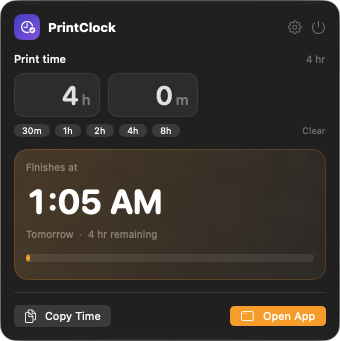
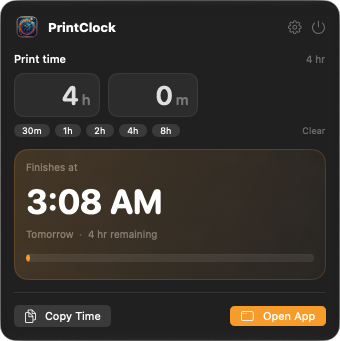
Use new PrintClock app artwork and add install docs

Changed region(s): [[0.0294, 0.0293, 0.1176, 0.1173], [0.0588, 0.5572, 0.1471, 0.6452], [0.2353, 0.5572, 0.2941, 0.6158]]

diff --git a/scripts/make_icon.swift b/scripts/make_icon.swift
@@ -2,193 +2,91 @@
 import AppKit
 import CoreGraphics
 import Foundation
+import ImageIO
 
-// Renders the 1024pt app icon. Usage: swift make_icon.swift <output-directory>
+// Renders the PrintClock app icon set from the artwork in assets/.
+// Usage: swift scripts/make_icon.swift [output-directory]
 
-let arguments = CommandLine.arguments
-let outputDirectory = arguments.count > 1
-    ? arguments[1]
-    : "PrintClock/Assets.xcassets/AppIcon.appiconset"
+let scriptURL = URL(fileURLWithPath: CommandLine.arguments[0]).standardizedFileURL
+let projectRoot = scriptURL.deletingLastPathComponent().deletingLastPathComponent()
+let sourceURL = projectRoot.appendingPathComponent("assets/PrintClockIconSource.jpg")
 
-let canvas: CGFloat = 1024
-let colorSpace = CGColorSpaceCreateDeviceRGB()
-
-guard let bitmap = NSBitmapImageRep(
-    bitmapDataPlanes: nil,
-    pixelsWide: Int(canvas),
-    pixelsHigh: Int(canvas),
-    bitsPerSample: 8,
-    samplesPerPixel: 4,
-    hasAlpha: true,
-    isPlanar: false,
-    colorSpaceName: .deviceRGB,
-    bytesPerRow: 0,
-    bitsPerPixel: 0
-) else {
-    fatalError("Could not create bitmap")
+let outputDirectory: URL
+if CommandLine.arguments.count > 1 {
+    outputDirectory = URL(fileURLWithPath: CommandLine.arguments[1])
+} else {
+    outputDirectory = projectRoot
+        .appendingPathComponent("PrintClock")
+        .appendingPathComponent("Assets.xcassets")
+        .appendingPathComponent("AppIcon.appiconset")
 }
 
-NSGraphicsContext.saveGraphicsState()
-NSGraphicsContext.current = NSGraphicsContext(bitmapImageRep: bitmap)
-guard let context = NSGraphicsContext.current?.cgContext else {
-    fatalError("Could not create drawing context")
+guard let source = CGImageSourceCreateWithURL(sourceURL as CFURL, nil),
+      let artwork = CGImageSourceCreateImageAtIndex(source, 0, nil) else {
+    fatalError("Could not load \(sourceURL.path)")
 }
 
-context.setAllowsAntialiasing(true)
-context.setShouldAntialias(true)
-
-// Background squircle
-let inset: CGFloat = 54
-let backgroundRect = CGRect(x: inset, y: inset, width: canvas - inset * 2, height: canvas - inset * 2)
-let backgroundPath = CGPath(
-    roundedRect: backgroundRect,
-    cornerWidth: 218,
-    cornerHeight: 218,
-    transform: nil
-)
-
-context.saveGState()
-context.setShadow(
-    offset: CGSize(width: 0, height: -22),
-    blur: 46,
-    color: NSColor.black.withAlphaComponent(0.38).cgColor
-)
-context.addPath(backgroundPath)
-context.setFillColor(NSColor.black.cgColor)
-context.fillPath()
-context.restoreGState()
-
-context.saveGState()
-context.addPath(backgroundPath)
-context.clip()
-
-let backgroundGradient = CGGradient(
-    colorsSpace: colorSpace,
-    colors: [
-        NSColor(srgbRed: 0.20, green: 0.16, blue: 0.58, alpha: 1).cgColor,
-        NSColor(srgbRed: 0.43, green: 0.28, blue: 0.85, alpha: 1).cgColor,
-        NSColor(srgbRed: 0.61, green: 0.40, blue: 0.96, alpha: 1).cgColor
-    ] as CFArray,
-    locations: [0, 0.55, 1]
-)!
-
-context.drawLinearGradient(
-    backgroundGradient,
-    start: CGPoint(x: 150, y: 930),
-    end: CGPoint(x: 930, y: 110),
-    options: []
-)
-
-// Soft light from the top-left
-let glow = CGGradient(
-    colorsSpace: colorSpace,
-    colors: [
-        NSColor.white.withAlphaComponent(0.24).cgColor,
-        NSColor.white.withAlphaComponent(0).cgColor
-    ] as CFArray,
-    locations: [0, 1]
-)!
-
-context.drawRadialGradient(
-    glow,
-    startCenter: CGPoint(x: 320, y: 820),
-    startRadius: 0,
-    endCenter: CGPoint(x: 320, y: 820),
-    endRadius: 660,
-    options: []
-)
-
-context.restoreGState()
-
-// Clock
-let center = CGPoint(x: 512, y: 516)
-let ringRadius: CGFloat = 246
-
-context.saveGState()
-context.setShadow(
-    offset: CGSize(width: 0, height: -12),
-    blur: 28,
-    color: NSColor.black.withAlphaComponent(0.22).cgColor
-)
-context.setFillColor(NSColor.white.withAlphaComponent(0.06).cgColor)
-context.fillEllipse(in: CGRect(
-    x: center.x - ringRadius,
-    y: center.y - ringRadius,
-    width: ringRadius * 2,
-    height: ringRadius * 2
-))
-context.restoreGState()
-
-context.setStrokeColor(NSColor.white.withAlphaComponent(0.96).cgColor)
-context.setLineWidth(45)
-context.strokeEllipse(in: CGRect(
-    x: center.x - ringRadius,
-    y: center.y - ringRadius,
-    width: ringRadius * 2,
-    height: ringRadius * 2
-))
-
-// Tick marks
-func point(angleDegrees: CGFloat, radius: CGFloat) -> CGPoint {
-    let radians = angleDegrees * .pi / 180
-    return CGPoint(
-        x: center.x + sin(radians) * radius,
-        y: center.y + cos(radians) * radius
-    )
+// The 1376x768 artwork has its rounded-square icon at this location.
+let iconRect = CGRect(x: 388, y: 84, width: 600, height: 600)
+guard let croppedArtwork = artwork.cropping(to: iconRect) else {
+    fatalError("Could not crop the icon artwork")
 }
 
-context.setLineCap(.round)
-
-for tick in 0..<12 {
-    let angle = CGFloat(tick) * 30
-    let isMajor = tick % 3 == 0
-    let innerRadius: CGFloat = isMajor ? 190 : 200
-    let outerRadius: CGFloat = 218
-
-    context.setStrokeColor(NSColor.white.withAlphaComponent(isMajor ? 0.72 : 0.40).cgColor)
-    context.setLineWidth(isMajor ? 13 : 8)
-    context.move(to: point(angleDegrees: angle, radius: innerRadius))
-    context.addLine(to: point(angleDegrees: angle, radius: outerRadius))
-    context.strokePath()
-}
-
-// Hands: 7:48
-let hourAngle: CGFloat = (7 + 48.0 / 60.0) * 30
-let minuteAngle: CGFloat = 48 * 6
-
-context.setLineCap(.round)
-
-context.setStrokeColor(NSColor.white.cgColor)
-context.setLineWidth(31)
-context.move(to: center)
-context.addLine(to: point(angleDegrees: hourAngle, radius: 118))
-context.strokePath()
-
-context.setStrokeColor(NSColor(srgbRed: 1.0, green: 0.69, blue: 0.27, alpha: 1).cgColor)
-context.setLineWidth(22)
-context.move(to: center)
-context.addLine(to: point(angleDegrees: minuteAngle, radius: 174))
-context.strokePath()
-
-// Center cap
-context.setFillColor(NSColor(srgbRed: 1.0, green: 0.69, blue: 0.27, alpha: 1).cgColor)
-context.fillEllipse(in: CGRect(x: center.x - 23, y: center.y - 23, width: 46, height: 46))
-context.setFillColor(NSColor.white.cgColor)
-context.fillEllipse(in: CGRect(x: center.x - 10, y: center.y - 10, width: 20, height: 20))
-
-NSGraphicsContext.restoreGraphicsState()
-
-// Save
 try FileManager.default.createDirectory(
-    atPath: outputDirectory,
+    at: outputDirectory,
     withIntermediateDirectories: true
 )
 
-guard let png = bitmap.representation(using: .png, properties: [:]) else {
-    fatalError("Could not encode PNG")
-}
+let colorSpace = CGColorSpaceCreateDeviceRGB()
+let sizes = [16, 32, 64, 128, 256, 512, 1024]
 
-let outputURL = URL(fileURLWithPath: outputDirectory)
-    .appendingPathComponent("icon_1024.png")
-try png.write(to: outputURL)
-print("Wrote \(outputURL.path)")
+for size in sizes {
+    guard let context = CGContext(
+        data: nil,
+        width: size,
+        height: size,
+        bitsPerComponent: 8,
+        bytesPerRow: 0,
+        space: colorSpace,
+        bitmapInfo: CGImageAlphaInfo.premultipliedLast.rawValue
+    ) else {
+        fatalError("Could not create a \(size)px context")
+    }
+
+    let bounds = CGRect(x: 0, y: 0, width: size, height: size)
+    context.clear(bounds)
+    context.interpolationQuality = .high
+    context.setShouldAntialias(true)
+
+    // Match the rounded-square silhouette of the artwork.
+    let radius = CGFloat(size) * 0.218
+    context.addPath(CGPath(
+        roundedRect: bounds,
+        cornerWidth: radius,
+        cornerHeight: radius,
+        transform: nil
+    ))
+    context.clip()
+    context.draw(croppedArtwork, in: bounds)
+
+    guard let scaled = context.makeImage() else {
+        fatalError("Could not render the \(size)px icon")
+    }
+
+    let destinationURL = outputDirectory.appendingPathComponent("icon_\(size).png")
+    guard let destination = CGImageDestinationCreateWithURL(
+        destinationURL as CFURL,
+        "public.png" as CFString,
+        1,
+        nil
+    ) else {
+        fatalError("Could not create \(destinationURL.path)")
+    }
+
+    CGImageDestinationAddImage(destination, scaled, nil)
+    guard CGImageDestinationFinalize(destination) else {
+        fatalError("Could not write \(destinationURL.path)")
+    }
+
+    print("Wrote \(destinationURL.path)")
+}

diff --git a/PrintClock/ContentView.swift b/PrintClock/ContentView.swift
@@ -1,3 +1,4 @@
+import AppKit
 import SwiftUI
 import PrintClockKit
 
@@ -43,25 +44,11 @@ struct ContentView: View {
 
     private var header: some View {
         HStack(spacing: 13) {
-            ZStack {
-                RoundedRectangle(cornerRadius: 13, style: .continuous)
-                    .fill(
-                        LinearGradient(
-                            colors: [
-                                Color(red: 0.30, green: 0.27, blue: 0.78),
-                                Color(red: 0.55, green: 0.36, blue: 0.90)
-                            ],
-                            startPoint: .topLeading,
-                            endPoint: .bottomTrailing
-                        )
-                    )
-
-                Image(systemName: "clock.badge.checkmark")
-                    .font(.system(size: 23, weight: .semibold))
-                    .foregroundStyle(.white)
-            }
-            .frame(width: 46, height: 46)
-            .shadow(color: Color.accentColor.opacity(0.24), radius: 8, y: 3)
+            Image(nsImage: NSApp.applicationIconImage)
+                .resizable()
+                .interpolation(.high)
+                .frame(width: 46, height: 46)
+                .shadow(color: .black.opacity(0.18), radius: 6, y: 3)
 
             VStack(alignment: .leading, spacing: 2) {
                 Text("PrintClock")

diff --git a/PrintClock/MenuBarView.swift b/PrintClock/MenuBarView.swift
@@ -24,24 +24,10 @@ struct MenuBarView: View {
 
     private var header: some View {
         HStack(spacing: 8) {
-            ZStack {
-                RoundedRectangle(cornerRadius: 8, style: .continuous)
-                    .fill(
-                        LinearGradient(
-                            colors: [
-                                Color(red: 0.30, green: 0.27, blue: 0.78),
-                                Color(red: 0.55, green: 0.36, blue: 0.90)
-                            ],
-                            startPoint: .topLeading,
-                            endPoint: .bottomTrailing
-                        )
-                    )
-
-                Image(systemName: "clock.badge.checkmark")
-                    .font(.system(size: 12, weight: .semibold))
-                    .foregroundStyle(.white)
-            }
-            .frame(width: 26, height: 26)
+            Image(nsImage: NSApp.applicationIconImage)
+                .resizable()
+                .interpolation(.high)
+                .frame(width: 26, height: 26)
 
             Text("PrintClock")
                 .font(.headline)

diff --git a/README.md b/README.md
@@ -42,6 +42,21 @@ The app adds a clock-with-check icon to the menu bar. If you use a menu bar
 manager such as Thaw, make sure the PrintClock item is in the visible
 section.
 
+## Install
+
+Download the latest DMG from the
+[releases page](https://github.com/frankt2012/PrintClock/releases/latest), or
+install with Homebrew:
+
+```sh
+brew tap frankt2012/printclock
+brew install --cask printclock
+```
+
+PrintClock requires macOS 14 Sonoma or later. The build is signed for local
+development and is not notarized, so on first launch right-click the app in
+Applications and choose **Open**.
+
 ## Build
 
 The project is generated with [XcodeGen](https://github.com/yonaskolb/XcodeGen).
